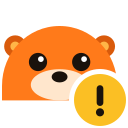
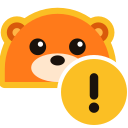
feat: outline slack status emoji in the status color and enlarge the badge

diff --git a/scripts/render.py b/scripts/render.py
@@ -338,12 +338,16 @@ FACE = {"reviewing": "look", "clean": "happy", "minor": "open", "changes": "open
 def emoji(status, t=0.0):
     color, glyph = BADGE[status]
     dx = 1.3 * math.sin(t) if status == "reviewing" else 0.0
-    head = f'<g fill="none">{EARS}<path d="{HEAD}" fill="{ORANGE}"/>{EYES[FACE[status]](dx)}{MUZZLE.split("<path", 1)[0]}<ellipse cx="32" cy="38.2" rx="3.3" ry="2.3" fill="{INK}"/></g>'
+    halo = (
+        f'<g fill="{color}" stroke="{color}" stroke-width="5.5" stroke-linejoin="round">'
+        f'<circle cx="13.5" cy="25.5" r="4.6"/><circle cx="50.5" cy="25.5" r="4.6"/><path d="{HEAD}"/></g>'
+    )
+    head = f'{halo}<g fill="none">{EARS}<path d="{HEAD}" fill="{ORANGE}"/>{EYES[FACE[status]](dx)}{MUZZLE.split("<path", 1)[0]}<ellipse cx="32" cy="38.2" rx="3.3" ry="2.3" fill="{INK}"/></g>'
     return f"""<svg xmlns="http://www.w3.org/2000/svg" width="128" height="128" viewBox="0 0 64 64">
-<mask id="cut"><rect width="64" height="64" fill="#fff"/><circle cx="50" cy="50" r="15.5" fill="#000"/></mask>
-<g mask="url(#cut)"><g transform="translate(-8.6 -7.4) scale(1.2)">{head}</g></g>
-<circle cx="50" cy="50" r="13" fill="{color}"/>
-<g fill="none" transform="translate(50 50) scale(.88) translate(-48 -46)">{glyph(t)}</g>
+<mask id="cut"><rect width="64" height="64" fill="#fff"/><circle cx="47" cy="46" r="18.5" fill="#000"/></mask>
+<g mask="url(#cut)"><g transform="translate(-6.4 -11.8) scale(1.1)">{head}</g></g>
+<circle cx="47" cy="46" r="16.5" fill="{color}"/>
+<g fill="none" transform="translate(47 46) scale(1.12) translate(-48 -46)">{glyph(t)}</g>
 </svg>"""
 
 

diff --git a/slack/README.md b/slack/README.md
@@ -32,8 +32,8 @@ clear of them.
 
 Custom emoji for the review status reactions, in [`emoji/`](emoji). Upload them under
 **Customize workspace → Emoji** with the names below, then set those names in the review status
-settings instead of the defaults. Each one is the mascot's head with a status badge in the corner:
-the badge carries the meaning at 22 px, the face backs it up when the emoji is shown larger.
+settings instead of the defaults. Each one is the mascot's head outlined in the status color with a status badge in the corner:
+the outline and badge carry the meaning at 22 px, the face backs them up when the emoji is shown larger.
 
 | Status                         | Name              | File                                                              | Default |
 | ------------------------------ | ----------------- | ----------------------------------------------------------------- | ------- |
